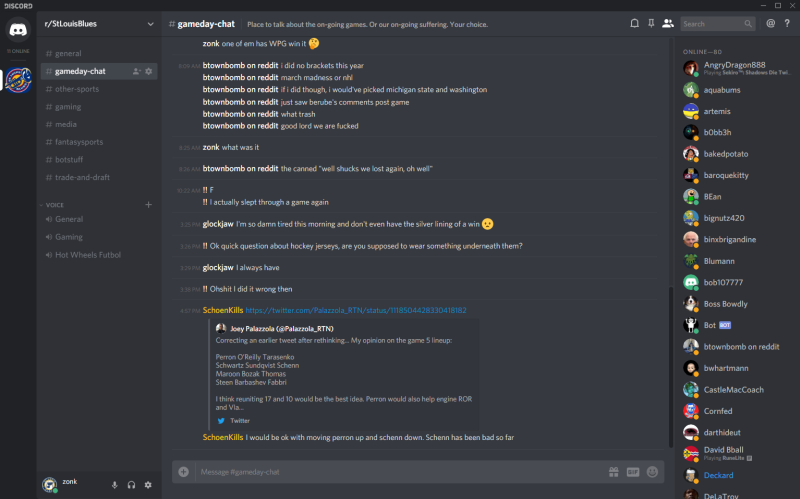
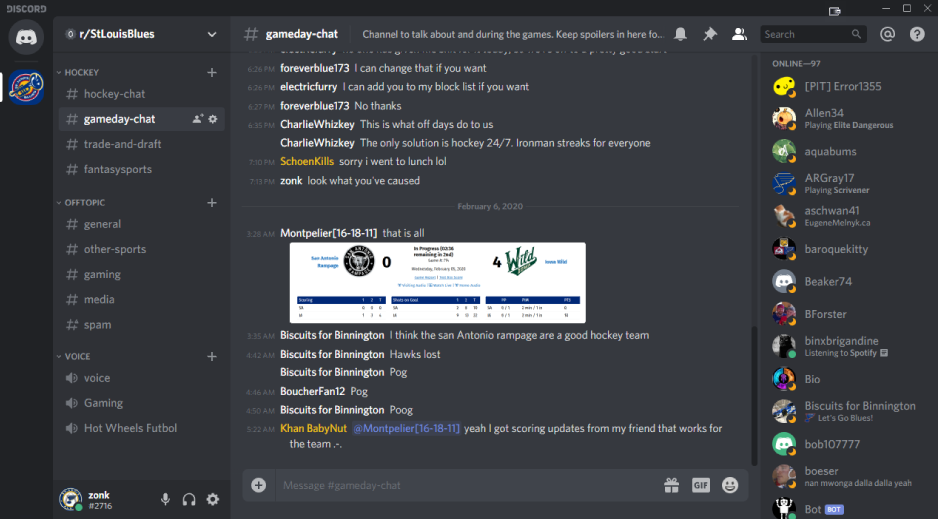
Update for new channel structure

diff --git a/themes/hugo-whisper-theme/layouts/partials/sub-footer.html b/themes/hugo-whisper-theme/layouts/partials/sub-footer.html
@@ -7,7 +7,7 @@
             <li class="zerostatic"><a href="https://discord.gg/5YQfyNY">Join the Discord!</a></li>
             <li class="zerostatic"><a
                 href="https://old.reddit.com/r/stlouisblues">https://www.reddit.com/r/stlouisblues</a></li>
-            <li>Last Update: October 2019</li>
+            <li>Last Update: February 2020</li>
           </ul>
         </div>
       </div>

diff --git a/content/info/channels/_index.md b/content/info/channels/_index.md
@@ -10,21 +10,30 @@ weight: 2
 
 The amount of Discord channels is changing quite regularly and we are re-evaluating which channels make sense and which are obsolete at all times. They all serve a specific purpose and should be used for that if possible.
 
-We're trying to keep the number of channels limited, since we'd rather have a few active channels than a lot of channels of which half are barely used and people need to start hiding channels that they're not interested in. 
+We're trying to keep the number of channels low, since we'd rather have a few active channels than a lot of channels of which half are barely used and people need to start hiding channels that they're not interested in.
 
 If you think a new channel for a specific purpose is necessary, feel free to suggest it to the Discord Mods and we can discuss it.
 
-The current list of channels and their main purposes are as follows (click them for more details):
+The channels are divided into two categories: `hockey` and `offtopic`. While the former are primarily focusing on everything hockey, the latter is a catch-all for all the other topics that the user on the server like to talk about. Please note that every channel in the `hockey` category is moderated stricter than the rest of the server and punishment will be less lenient.
 
-- [**#general**](../channels/general): As the name suggests, in here you can talk about any kind of hockey news, rumors, but also any other kind of off-topic chit chat
+Here's the current list of channels and their main purposes (click them for more details):
+
+### Hockey
+
+- [**#hockey-chat**](../channels/hockey-chat): This channel is for all things hockey. No matter if Ovi scored another hattrick or the Oilers ruined another talent. Other leagues are welcome, too!
 - [**#gameday-chat**](../channels/gameday-chat): This is the main gathering point when there's a Blues game upcoming or on-going. All match-related spoilers go in here for the remainder of the night
-- [**#other-sports**](../channels/other-sports): Since St. Louis is a town full of sports fanatics, we also discuss the Cardinals, the AHL, the NFL, MLS or any other sports in here
+- [**#trade-and-draft**](../channels/trade-and-draft): If the trade rumors and deadline or the drafts are your favourite time of the season, this is your channel
+- [**#fantasysports**](../channels/fantasysports): We also organize fantasy leagues of all kinds (NHL, MLB, NFL, XFL). Veterans as well as newbies are welcome! :blush:
+
+### Offtopic
+
+- [**#general**](../channels/general): As the name suggests, in here you can talk about any kind of offtopic chit chat
+- [**#other-sports**](../channels/other-sports): Since St. Louis is a town full of sports fanatics, we also discuss the Cardinals, the NFL, MLS or any other sports in here
 - [**#gaming**](../channels/gaming): Any gaming related news go in here. If you're looking for people to party up with, this is the place to go
 - [**#media**](../channels/media): In here you can discuss your favorite movies, series or music. Make sure to use spoiler tags if you're talking about unaired material
-- [**#fantasysports**](../channels/fantasysports): We also organize fantasy leagues of all kinds (NHL, MLB, NFL). Veterans as well as newbies are welcome! :blush:
 - [**#spam**](../channels/spam): Here you can spam (within reason) bot commands and images to your heart's delight if you don't want to disturb others
-- [**#trade-and-draft**](../channels/trade-and-draft): If the trade rumors and deadline or the drafts are your favourite time of the season, this is your channel
 
-Also, make sure to occasionally check the channel specific pins (push pin icon at the top of Discord). Updated or temporary channel rules and other information is generally pinned there.
+
+Also, make sure to regularly check the channel specific pins (push pin icon at the top of Discord). Updated or temporary channel rules and other information is generally pinned there.
 
 Please keep the [channel specific rules](../rules/#channel-specific-rules) in mind.

diff --git a/content/info/roles/index.md b/content/info/roles/index.md
@@ -8,8 +8,10 @@ weight: 20
 
 ## Server Roles
 
-As you may have noticed, certain users have a yellow or blue user name. Users with a colored name belong to either of these two groups:
+As you may have noticed, certain users have a yellow, blue or even a red user name. Users with a colored name belong to one of these groups:
 
 - <font color="#F1C40F">Discord mods</font>: These users are your first priority when you have questions or suggestions for the Discord server. They are in control of the server and can mute people, delete their messages or even ban people
 
-- <font color="#3498DB">Reddit mods</font>: Some of the [subreddit's moderators](https://www.reddit.com/r/stlouisblues/about/moderators) are also active on the Discord. In general it's easier to contact them on reddit or via modmail, but if you see one hanging around, you might contact them with questions about the subreddit or similar.
+- <font color="#3498DB">Reddit mods</font>: Some of the [subreddit's moderators](https://www.reddit.com/r/stlouisblues/about/moderators) are also active on the Discord. In general it's easier to contact them on reddit or via modmail, but if you see one hanging around, you might contact them with questions about the subreddit or similar
+
+- <font color="#E1483B">Muted users</font>: If a user misbehaves and is for example disturbing on-going talks with spam or 1on1 off-topic discussions, they will be muted. Not every behavior requires bans or other harsh actions and a temporary timeout is oftentimes enough. Muted users can not participate in any way in the chat other than reading it.

diff --git a/content/info/channels/spam/index.md b/content/info/channels/spam/index.md
@@ -3,7 +3,7 @@ title: '#spam'
 hasParent: true
 date: 2019-02-11T19:30:08+10:00
 draft: false
-weight: 10
+weight: 13
 ---
 
 ## Usage
@@ -12,6 +12,6 @@ There's not too much to say about this channel. In here you can spam the [bots']
 
 In addition to that, if you're having a longer off-topic conversation or engaging in some good ole banter with other users you should use this channel. Please be respectful and just use this channel in this case.
 
-This is also the only channel in which you can share your memes and other images as it is the only channel that allows file attachments. 
+This is also the only channel in which you can spam your memes and other images.
 
 **Important note**: Even though the channel is marked as NSFW, no actual content that is against the [Golden Rule](../../rules/#dont-be-a-jerk) can be shared in here. This includes but is not limited to 18+, sexist, political or racist content. Failure to follow this simple rule will result in [a ban](../../rules/#consequences).

diff --git a/content/info/channels/general/index.md b/content/info/channels/general/index.md
@@ -3,11 +3,11 @@ title: '#general'
 hasParent: true
 date: 2019-02-11T19:30:08+10:00
 draft: false
-weight: 3
+weight: 9
 ---
 
 ## Usage
 
-The channel name gives it all away, this is just a catch-all channel, mainly for any hockey talk. Off-topic discussions are okay, but please make sure to not spam (see [#spam](../channels/spam)). Also, be aware that this is at its core still a hockey server, so if there’s a lively discussion going on about hockey, what you ate for lunch yesterday might not be important to other people right now. Don’t force this info upon them.
+The channel name gives it all away, this is just a catch-all channel, mainly for any offtopic talk. Please make sure to not spam (see [#spam](../channels/spam)).
 
 In addition, make sure to check the channel pins occasionally, new infos and updates are generally shared and pinned in this channel.

diff --git a/content/info/channels/hockey-chat/index.md b/content/info/channels/hockey-chat/index.md
@@ -1,0 +1,13 @@
+---
+title: '#hockey-chat'
+hasParent: true
+date: 2019-02-11T19:30:08+10:00
+draft: false
+weight: 6
+---
+
+## Usage
+
+The name of this channel is very broad for this exact reason: in here you can talk about anything related to hockey. No matter what league or what team, everything is welcome here. Share an interesting tweet or article about hockey or its events in this channel.
+
+Please be aware that non-hockey related discussions are to be avoided in here (see [#general](../channels/general)).

diff --git a/content/info/changelog/index.md b/content/info/changelog/index.md
@@ -8,6 +8,17 @@ weight: 999
 
 ## Latest changes
 
+**February 2020**:
+
+- Added muted role to the `Roles` overview
+
+- Clarified division between hockey and offtopic chat in `Channels`
+
+- Added `#hockey-chat` to the channels and sorted list
+
+- Updated `#general` description to make it purely offtopic
+
+
 **October 2019**:
 
 - Added `Changelog` page to list all changes since the last time

diff --git a/content/info/channels/trade-and-draft/index.md b/content/info/channels/trade-and-draft/index.md
@@ -3,7 +3,7 @@ title: '#trade-and-draft'
 hasParent: true
 date: 2019-02-11T19:30:08+10:00
 draft: false
-weight: 9
+weight: 7
 ---
 
 ## Usage

diff --git a/content/info/channels/other-sports/index.md b/content/info/channels/other-sports/index.md
@@ -3,7 +3,7 @@ title: '#other-sports'
 hasParent: true
 date: 2019-02-11T19:30:08+10:00
 draft: false
-weight: 5
+weight: 10
 ---
 
 ## Usage

diff --git a/content/info/channels/gaming/index.md b/content/info/channels/gaming/index.md
@@ -3,7 +3,7 @@ title: '#gaming'
 hasParent: true
 date: 2019-02-11T19:30:08+10:00
 draft: false
-weight: 6
+weight: 11
 ---
 
 ## Usage

diff --git a/content/info/channels/media/index.md b/content/info/channels/media/index.md
@@ -3,7 +3,7 @@ title: '#media'
 hasParent: true
 date: 2019-02-11T19:30:08+10:00
 draft: false
-weight: 7
+weight: 12
 ---
 
 ## Usage
